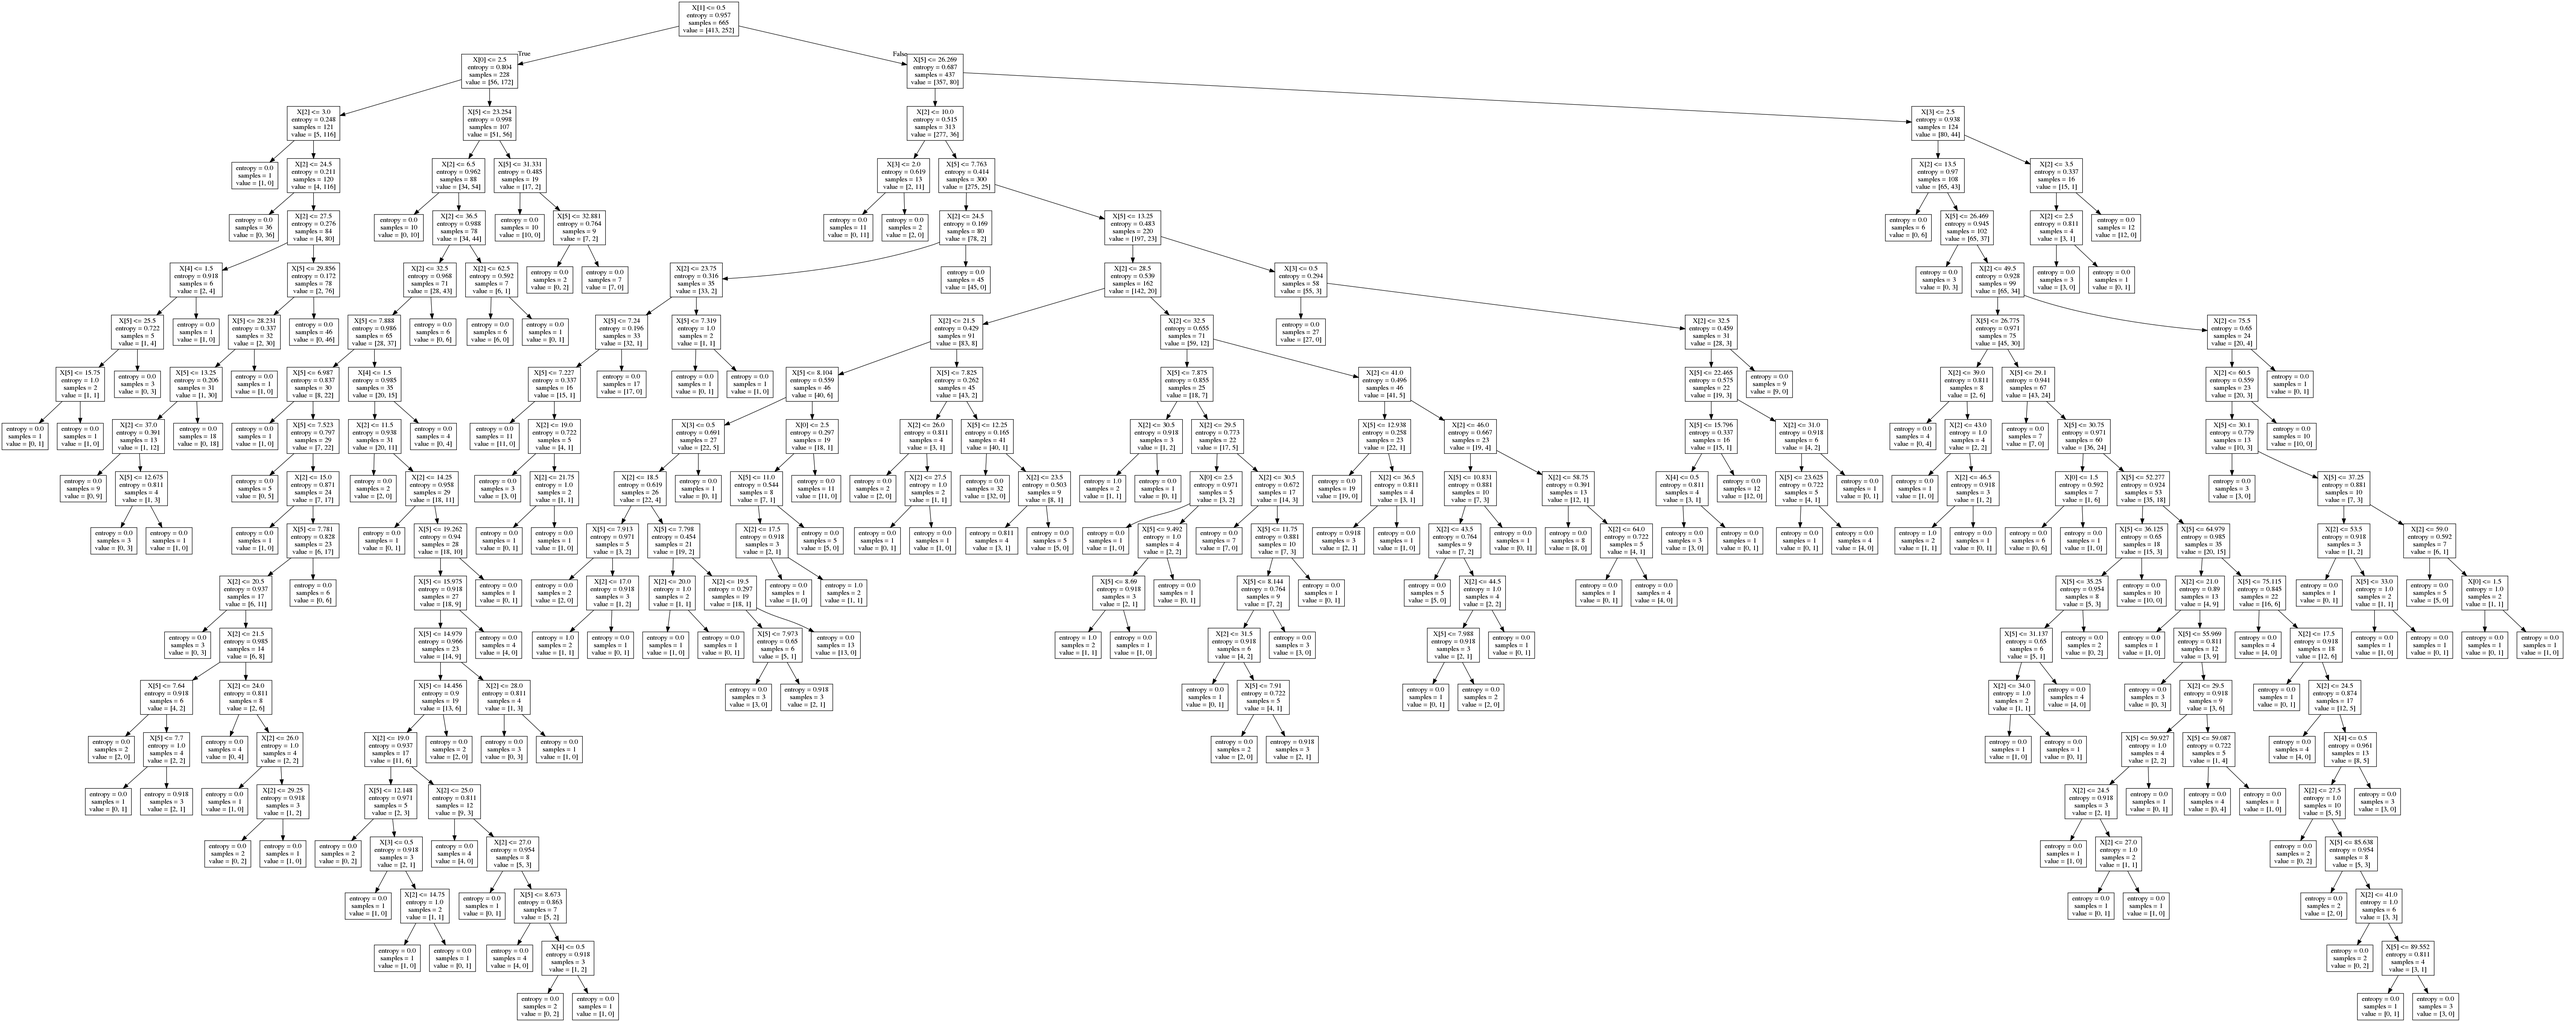
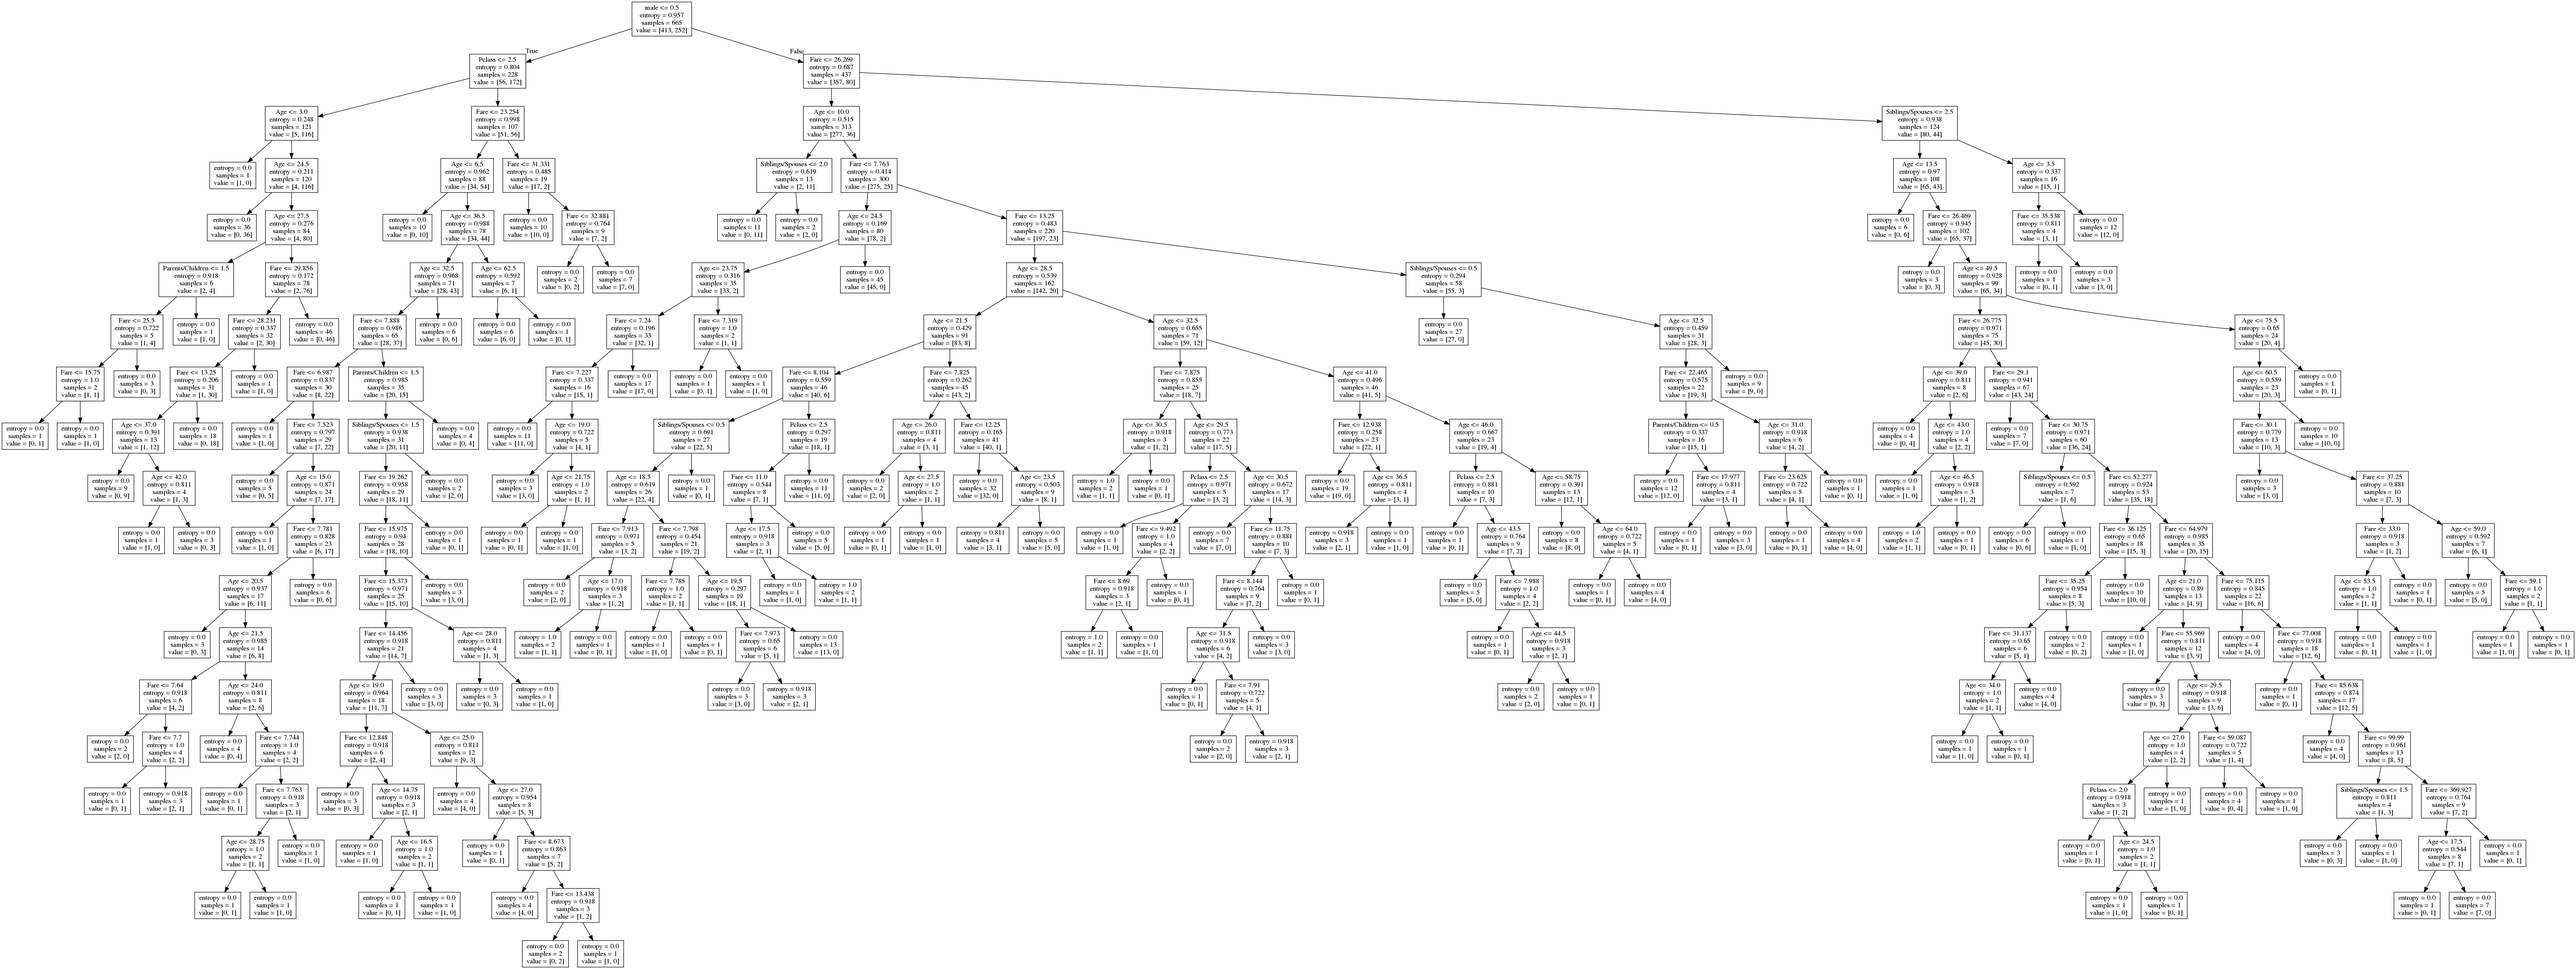
Cross validation in grid search

diff --git a/rps_model/ex10.py b/rps_model/ex10.py
@@ -1,0 +1,43 @@
+import graphviz as graphviz
+import pandas as pd
+import matplotlib.pyplot as plt
+import numpy as np
+from sklearn.linear_model import LogisticRegression
+from sklearn.metrics import precision_score, accuracy_score, recall_score, f1_score, roc_curve, roc_auc_score
+from sklearn.model_selection import train_test_split, KFold
+from sklearn.tree import DecisionTreeClassifier, export_graphviz
+from sklearn.model_selection import GridSearchCV
+
+pd.options.display.max_columns = 8
+
+df = pd.read_csv('titanic.csv')
+df['male'] = df['Sex'] == 'male'
+feature_names = ['Pclass', 'male', 'Age', 'Siblings/Spouses', 'Parents/Children', 'Fare']
+X = df[feature_names].values
+y = df['Survived'].values
+
+X_train, X_test, y_train, y_test = train_test_split(X, y, random_state=22)
+model = DecisionTreeClassifier()  # default 'gini'
+# model.fit(X_train, y_train)
+# y_pred = model.predict(X_test)
+# print(model.predict(X[:15]))  # predicts for first 15 datasets
+# print('Model score: ',  model.score(X_test, y_test))
+# print('Accuracy: ', accuracy_score(y_test, y_pred))
+# print('Recall: ', recall_score(y_test, y_pred))
+# print('Precision: ', precision_score(y_test, y_pred))
+# print('F1 score: ', f1_score(y_test, y_pred))
+
+
+param_grid = {
+    'max_depth': [5, 10, 15, 25, 35],
+    'min_samples_leaf': [1, 3, 5],
+    'max_leaf_nodes': [5, 10, 20, 35, 50]
+}
+gs = GridSearchCV(model, param_grid=param_grid, scoring='precision', cv=5)
+gs.fit(X, y)
+print(gs.best_params_)  # searching fo best params for decision treee, now
+                        # we can go back to decision tree, and change params.
+print(gs.best_score_)
+# dot_file = export_graphviz(model, feature_names=feature_names)
+# graph = graphviz.Source(dot_file)
+# graph.render(filename='tree_pruned', format='png', cleanup=True)

diff --git a/rps_model/ex9.py b/rps_model/ex9.py
@@ -17,7 +17,7 @@ X = df[feature_names].values
 y = df['Survived'].values
 
 X_train, X_test, y_train, y_test = train_test_split(X, y, random_state=22)
-model = DecisionTreeClassifier(criterion='entropy')  # default 'gini'
+model = DecisionTreeClassifier(max_depth=5, min_samples_leaf=5, max_leaf_nodes=15)  # default 'gini'
 model.fit(X_train, y_train)
 y_pred = model.predict(X_test)
 print(model.predict(X[:15]))  # predicts for first 15 datasets
@@ -31,4 +31,4 @@ print('F1 score: ', f1_score(y_test, y_pred))
 
 dot_file = export_graphviz(model, feature_names=feature_names)
 graph = graphviz.Source(dot_file)
-graph.render(filename='tree', format='png', cleanup=True)
+graph.render(filename='tree_pruned', format='png', cleanup=True)
